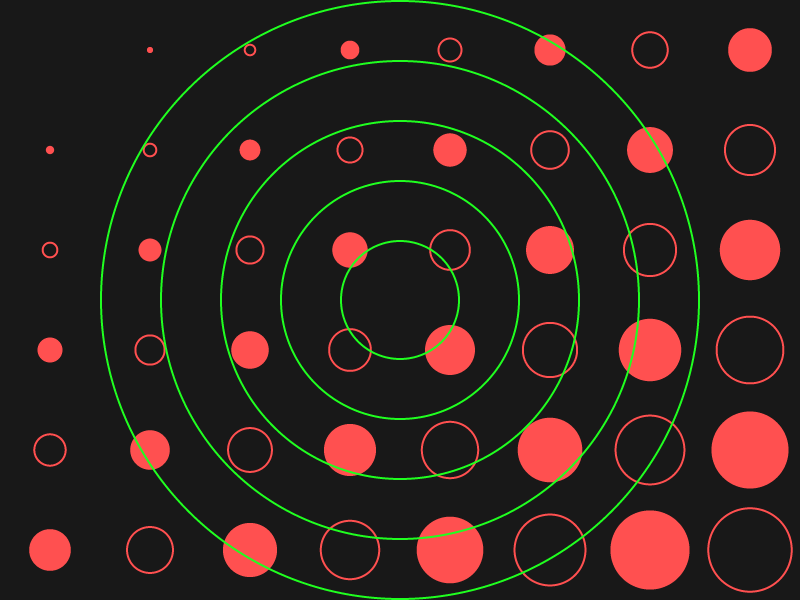
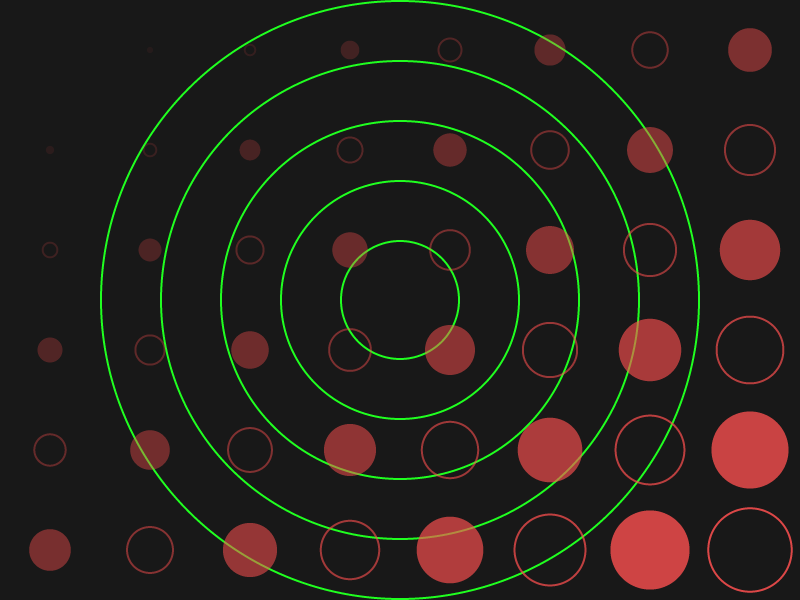
Optimaized some alpgorithms

diff --git a/neovin.c b/neovin.c
@@ -107,12 +107,12 @@ NEOVINCDEF float NVC_Vec2D_Angle(Vec2D vec)
 
 NEOVINCDEF Vec2D NVC_Vec2D_Add(Vec2D vec1, Vec2D vec2)
 {
-    return (Vec2D) { .x = vec1.x + vec2.x, .y = vec1.y + vec2.y };
+    return Vec2D(vec1.x + vec2.x, vec1.y + vec2.y);
 }
 
 NEOVINCDEF Vec2D NVC_Vec2D_Subtract(Vec2D vec1, Vec2D vec2)
 {
-    return (Vec2D) { .x = vec1.x - vec2.x, .y = vec1.y - vec2.y };
+    return Vec2D(vec1.x - vec2.x, vec1.y - vec2.y);
 }
 
 NEOVINCDEF float NVC_Vec2D_Dot(Vec2D vec1, Vec2D vec2)
@@ -158,6 +158,14 @@ NEOVINCDEF void Modi_Color(uint32_t *color, COLOR index, uint8_t value)
     *color = Pack_RGBA32(comp);
 }
 
+NEOVINCDEF void Transparent_Color(uint32_t *color, float alpha)
+{
+    uint8_t comp[COUNT_COMP];
+    Unpack_RGBA32(*color, comp);
+    comp[COMP_ALPHA] *= alpha;
+    *color = Pack_RGBA32(comp);
+}
+
 NEOVINCDEF uint32_t NVC_Mix_Color_Alpha(uint32_t color_b, uint32_t color_t)
 {
     uint8_t comp_b[COUNT_COMP];
@@ -169,6 +177,8 @@ NEOVINCDEF uint32_t NVC_Mix_Color_Alpha(uint32_t color_b, uint32_t color_t)
     uint8_t comp_f[COUNT_COMP];
 
     comp_f[COMP_ALPHA] = comp_t[COMP_ALPHA] + comp_b[COMP_ALPHA]*(255 - comp_t[COMP_ALPHA])/255;
+    if (comp_f[COMP_ALPHA] == 0) return 0x00000000;
+
     for (int i = 0; i < COMP_ALPHA; ++i) {
         uint32_t sum = (uint32_t)comp_t[i]*comp_t[COMP_ALPHA]*255
                      + (uint32_t)comp_b[i]*comp_b[COMP_ALPHA]*(255 - comp_t[COMP_ALPHA]);
@@ -233,18 +243,25 @@ NEOVINCDEF uint32_t NVC_Blend_Color_Multiply(uint32_t color_b, uint32_t color_t)
     return Pack_RGBA32(comp_f);
 }
 
+NEOVINCDEF void NVC_Set_Pixel(NVC_Canvas oc, Vec2D location, uint32_t color)
+{
+    int x = (int)location.x;
+    int y = (int)location.y;
+    NVC_PIXEL(oc, x, y) = color;
+}
+
 NEOVINCDEF void NVC_Draw_Pixel(NVC_Canvas oc, Vec2D location, uint32_t color)
 {
     int x = (int)location.x;
     int y = (int)location.y;
-    oc.pixels[y*oc.stride + x] = NVC_Mix_Color_Alpha(oc.pixels[y*oc.stride + x], color);
+    NVC_PIXEL(oc, x, y) = NVC_Mix_Color_Alpha(NVC_PIXEL(oc, x, y), color);
 }
 
 NEOVINCDEF void NVC_Set_Background(NVC_Canvas oc, uint32_t color)
 {
     for (int y = 0; y < oc.height; ++y) {
         for (int x = 0; x < oc.width; ++x) {
-            oc.pixels[y*oc.stride + x] = color;
+            NVC_Set_Pixel(oc, Vec2D(x, y), color);
         }
     }
 }
@@ -253,7 +270,7 @@ NEOVINCDEF void NVC_Fill_Background(NVC_Canvas oc, uint32_t color)
 {
     for (int y = 0; y < oc.height; ++y) {
         for (int x = 0; x < oc.width; ++x) {
-            NVC_Draw_Pixel(oc, (Vec2D) { x, y }, color);
+            NVC_Draw_Pixel(oc, Vec2D(x, y), color);
         }
     }
 }
@@ -271,7 +288,7 @@ NEOVINCDEF void NVC_Fill_Rectangle(NVC_Canvas oc, Vec2D position, Vec2D size, ui
         int y = position.y + dy;
         int x = position.x + dx;
         if (0 <= x && x < oc.width && 0 <= y && y < oc.height) {
-            NVC_Draw_Pixel(oc, (Vec2D) { x, y }, color);
+            NVC_Draw_Pixel(oc, Vec2D(x, y), color);
         }
         dx += sx;
         if (dx == w) { dx = 0; dy += sy; }
@@ -297,8 +314,9 @@ NEOVINCDEF void NVC_Fill_Circle(NVC_Canvas oc, Vec2D position, float radius, uin
                         }
                     }
                     if (count > 0) {
-                        Modi_Color(&color, COMP_ALPHA, (uint8_t)(count*255/(AA_RES*AA_RES)));
-                        NVC_Draw_Pixel(oc, (Vec2D) { x, y }, color);
+                        uint32_t pixel_color = color;
+                        Transparent_Color(&pixel_color, ((float)count/(AA_RES*AA_RES)));
+                        NVC_Draw_Pixel(oc, Vec2D(x, y), pixel_color);
                     }
                 }
             }
@@ -324,8 +342,9 @@ NEOVINCDEF void NVC_Draw_Circle(NVC_Canvas oc, Vec2D position, float radius, flo
                         }
                     }
                     if (count > 0) {
-                        Modi_Color(&color, COMP_ALPHA, (uint8_t)(count*255/(AA_RES*AA_RES)));
-                        NVC_Draw_Pixel(oc, (Vec2D) { x, y }, color);
+                        uint32_t pixel_color = color;
+                        Transparent_Color(&pixel_color, ((float)count/(AA_RES*AA_RES)));
+                        NVC_Draw_Pixel(oc, Vec2D(x, y), pixel_color);
                     }
                 }
             }
@@ -349,13 +368,20 @@ NEOVINCDEF void NVC_Draw_Line(NVC_Canvas oc, Vec2D p1, Vec2D p2, uint32_t color)
     while (1) {
         // 只在画布范围内画点
         if (0 <= x1 && x1 < oc.width && 0 <= y1 && y1 < oc.height)
-            NVC_Draw_Pixel(oc, (Vec2D) { x1, y1 }, color);
+            NVC_Draw_Pixel(oc, Vec2D(x1, y1), color);
 
         if (x1 == x2 && y1 == y2) break;
         int e2 = 2 * err;
         if (e2 >= dy) { err += dy; x1 += sx; }
         if (e2 <= dx) { err += dx; y1 += sy; }
     }
+}
+
+NEOVINCDEF void NVC_Draw_Triangle(NVC_Canvas oc, Vec2D p1, Vec2D p2, Vec2D p3, uint32_t color)
+{
+    NVC_Draw_Line(oc, p1, p2, color);
+    NVC_Draw_Line(oc, p2, p3, color);
+    NVC_Draw_Line(oc, p3, p1, color);
 }
 
 NEOVINCDEF void NVC_Fill_Triangle(NVC_Canvas oc, Vec2D p1, Vec2D p2, Vec2D p3, uint32_t color)
@@ -378,11 +404,11 @@ NEOVINCDEF void NVC_Fill_Triangle(NVC_Canvas oc, Vec2D p1, Vec2D p2, Vec2D p3, u
     for (int y = y_min; y <= y_max; ++y) {
         for (int x = x_min; x <= x_max; ++x) {
             if (0 <= x && x < oc.width && 0 <= y && y < oc.height) {
-                Vec2D v1 = NVC_Vec2D_Subtract((Vec2D) { x, y }, p1);
-                Vec2D v2 = NVC_Vec2D_Subtract((Vec2D) { x, y }, p2);
-                Vec2D v3 = NVC_Vec2D_Subtract((Vec2D) { x, y }, p3);
+                Vec2D v1 = NVC_Vec2D_Subtract(Vec2D(x, y), p1);
+                Vec2D v2 = NVC_Vec2D_Subtract(Vec2D(x, y), p2);
+                Vec2D v3 = NVC_Vec2D_Subtract(Vec2D(x, y), p3);
                 if (NVC_SIGN(float, NVC_Vec2D_Cross(v1, v12)) == NVC_SIGN(float, NVC_Vec2D_Cross(v2, v23)) && NVC_SIGN(float, NVC_Vec2D_Cross(v1, v12)) == NVC_SIGN(float, NVC_Vec2D_Cross(v3, v31))) {
-                    NVC_Draw_Pixel(oc, (Vec2D) { x, y }, color);
+                    NVC_Draw_Pixel(oc, Vec2D(x, y), color);
 
                 }
             }

diff --git a/example.c b/example.c
@@ -112,6 +112,14 @@ bool circles_example(const char *file_path)
     // 0xAABBGGRR
     NVC_Fill_Background(oc, BACKGROUND_COLOR);
 
+    for (int i = 5; i > 0; --i) {
+        NVC_Draw_Circle(oc,
+                Vec2D((float)WIDTH/2, (float)HEIGHT/2),
+                lerpf(0, (float)HEIGHT/2, (float)i/5),
+                2,
+                0xFF20FF20);
+    }
+
     for (int y = 0; y < ROWS; ++y) {
         for (int x = 0; x < COLS; ++x) {
             float u = (float)x / COLS;
@@ -119,28 +127,22 @@ bool circles_example(const char *file_path)
             float t = (u + v)/2;
 
             float radius = CELL_WIDTH;
+            uint32_t color = 0xFF5050FF;
+            Transparent_Color(&color, t);
             if (CELL_HEIGHT < radius) radius = CELL_HEIGHT;
             if ((x+y)%2) {
                 NVC_Fill_Circle(oc,
                         Vec2D(x*CELL_WIDTH + (float)CELL_WIDTH/2, y*CELL_HEIGHT + (float)CELL_HEIGHT/2),
                         lerpf(0, radius/2, t),
-                        FOREGROUND_COLOR);
+                        color);
             } else {
                 NVC_Draw_Circle(oc,
                         Vec2D(x*CELL_WIDTH + (float)CELL_WIDTH/2, y*CELL_HEIGHT + (float)CELL_HEIGHT/2),
                         lerpf(0, radius/2, t),
                         2,
-                        FOREGROUND_COLOR);
+                        color);
             }
         }
-    }
-
-    for (int i = 5; i > 0; --i) {
-        NVC_Draw_Circle(oc,
-                Vec2D((float)WIDTH/2, (float)HEIGHT/2),
-                lerpf(0, (float)HEIGHT/2, (float)i/5),
-                2,
-                0xFF20FF20);
     }
 
     if (!stbi_write_png(file_path, oc.width, oc.height, 4, oc.pixels, oc.width*sizeof(uint32_t))) {
@@ -185,11 +187,19 @@ bool triangles_example(const char *file_path)
 
     for (int y = 0; y < ROWS; ++y) {
         for (int x = 0; x < COLS; ++x) {
-            NVC_Fill_Triangle(oc,
-                    Vec2D(x*CELL_WIDTH + (float)CELL_WIDTH/2, y*CELL_HEIGHT),
-                    Vec2D(x*CELL_WIDTH, y*CELL_HEIGHT + CELL_HEIGHT),
-                    Vec2D(x*CELL_WIDTH + CELL_WIDTH, y*CELL_HEIGHT + CELL_HEIGHT),
-                    FOREGROUND_COLOR);
+            if ((x+y)%2) {
+                NVC_Fill_Triangle(oc,
+                        Vec2D(x*CELL_WIDTH + (float)CELL_WIDTH/2, y*CELL_HEIGHT),
+                        Vec2D(x*CELL_WIDTH, y*CELL_HEIGHT + CELL_HEIGHT),
+                        Vec2D(x*CELL_WIDTH + CELL_WIDTH, y*CELL_HEIGHT + CELL_HEIGHT),
+                        FOREGROUND_COLOR);
+            } else {
+                NVC_Draw_Triangle(oc,
+                        Vec2D(x*CELL_WIDTH + (float)CELL_WIDTH/2, y*CELL_HEIGHT),
+                        Vec2D(x*CELL_WIDTH, y*CELL_HEIGHT + CELL_HEIGHT),
+                        Vec2D(x*CELL_WIDTH + CELL_WIDTH, y*CELL_HEIGHT + CELL_HEIGHT),
+                        FOREGROUND_COLOR);
+            }
         }
 
     }
